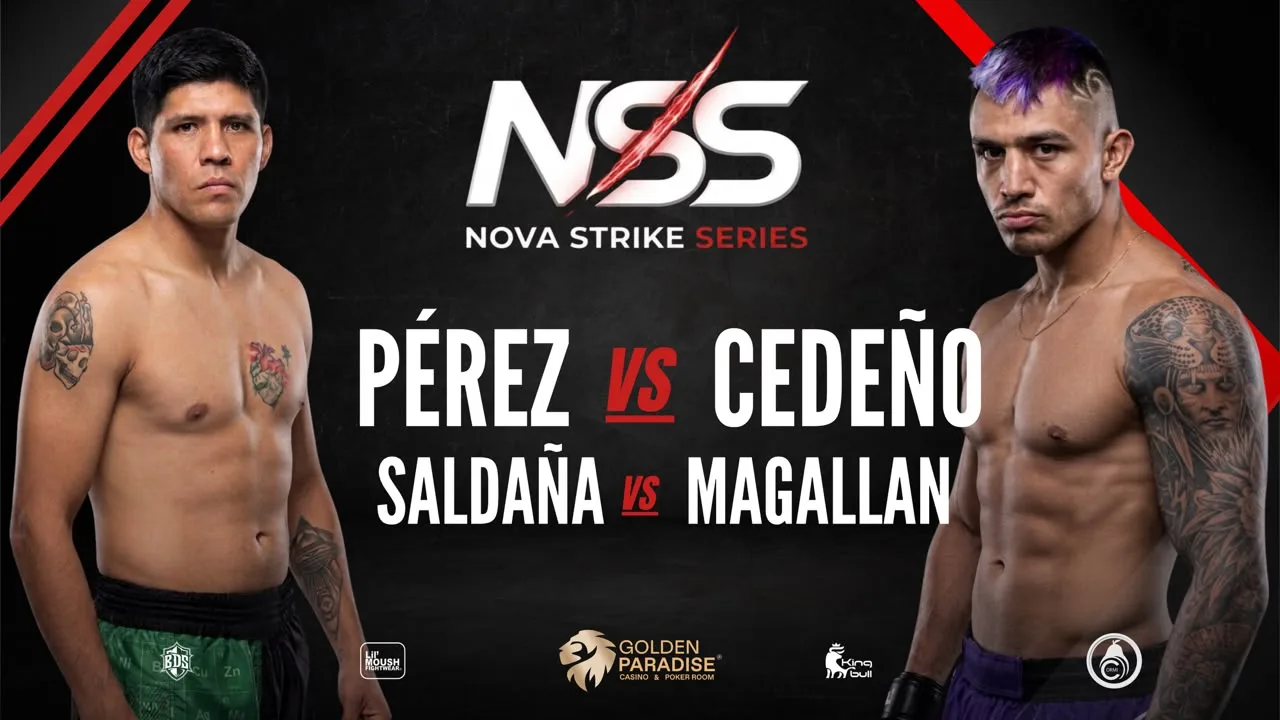
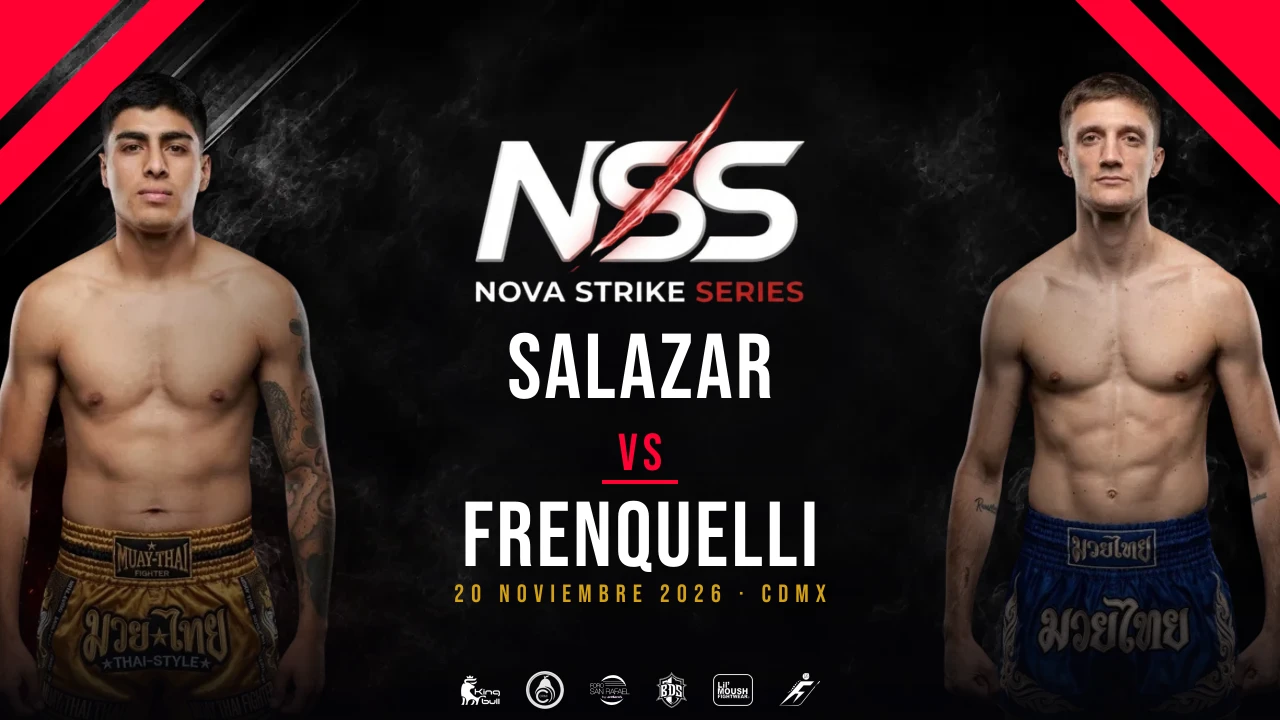
Preferente en los precios y portada con la pelea estelar
- Tercera tarjeta de precios: Preferente $750, asiento numerado en 1er
  piso. Queda entre General y VIP.
- Portada del video rehecha con Salazar vs Frenquelli, la fecha del
  evento y los patrocinadores que trae hoy la pagina (ya sin Golden
  Paradise, que era de la sede anterior).

diff --git a/index.html b/index.html
@@ -845,6 +845,11 @@ class Component extends DCLogic {
         features: ['Acceso al evento', 'Silla en zona general (lugar por orden de llegada)', 'Bar disponible', 'Pantallas LED gigantes', 'Estacionamiento no incluido']
       },
       {
+        tier: 'PREFERENTE', price: '$750', priceSub: '',
+        color: '#E6C789', colorBg: 'rgba(210,174,109,0.06)', colorBorder: 'rgba(210,174,109,0.32)',
+        features: ['Acceso al evento', 'Asiento numerado en 1er piso', 'Bar disponible', 'Pantallas LED gigantes', 'Estacionamiento no incluido']
+      },
+      {
         tier: 'VIP', price: '$1,500', priceSub: 'y $950',
         color: '#FF0033', colorBg: 'rgba(255,0,51,0.07)', colorBorder: 'rgba(255,0,51,0.35)',
         features: ['Zona VIP frente al octágono', 'Mesa reservada · $1,500', 'Asiento VIP (sin mesa) · $950', 'Meet & Greet peleadores', 'Foto con cartel oficial']
